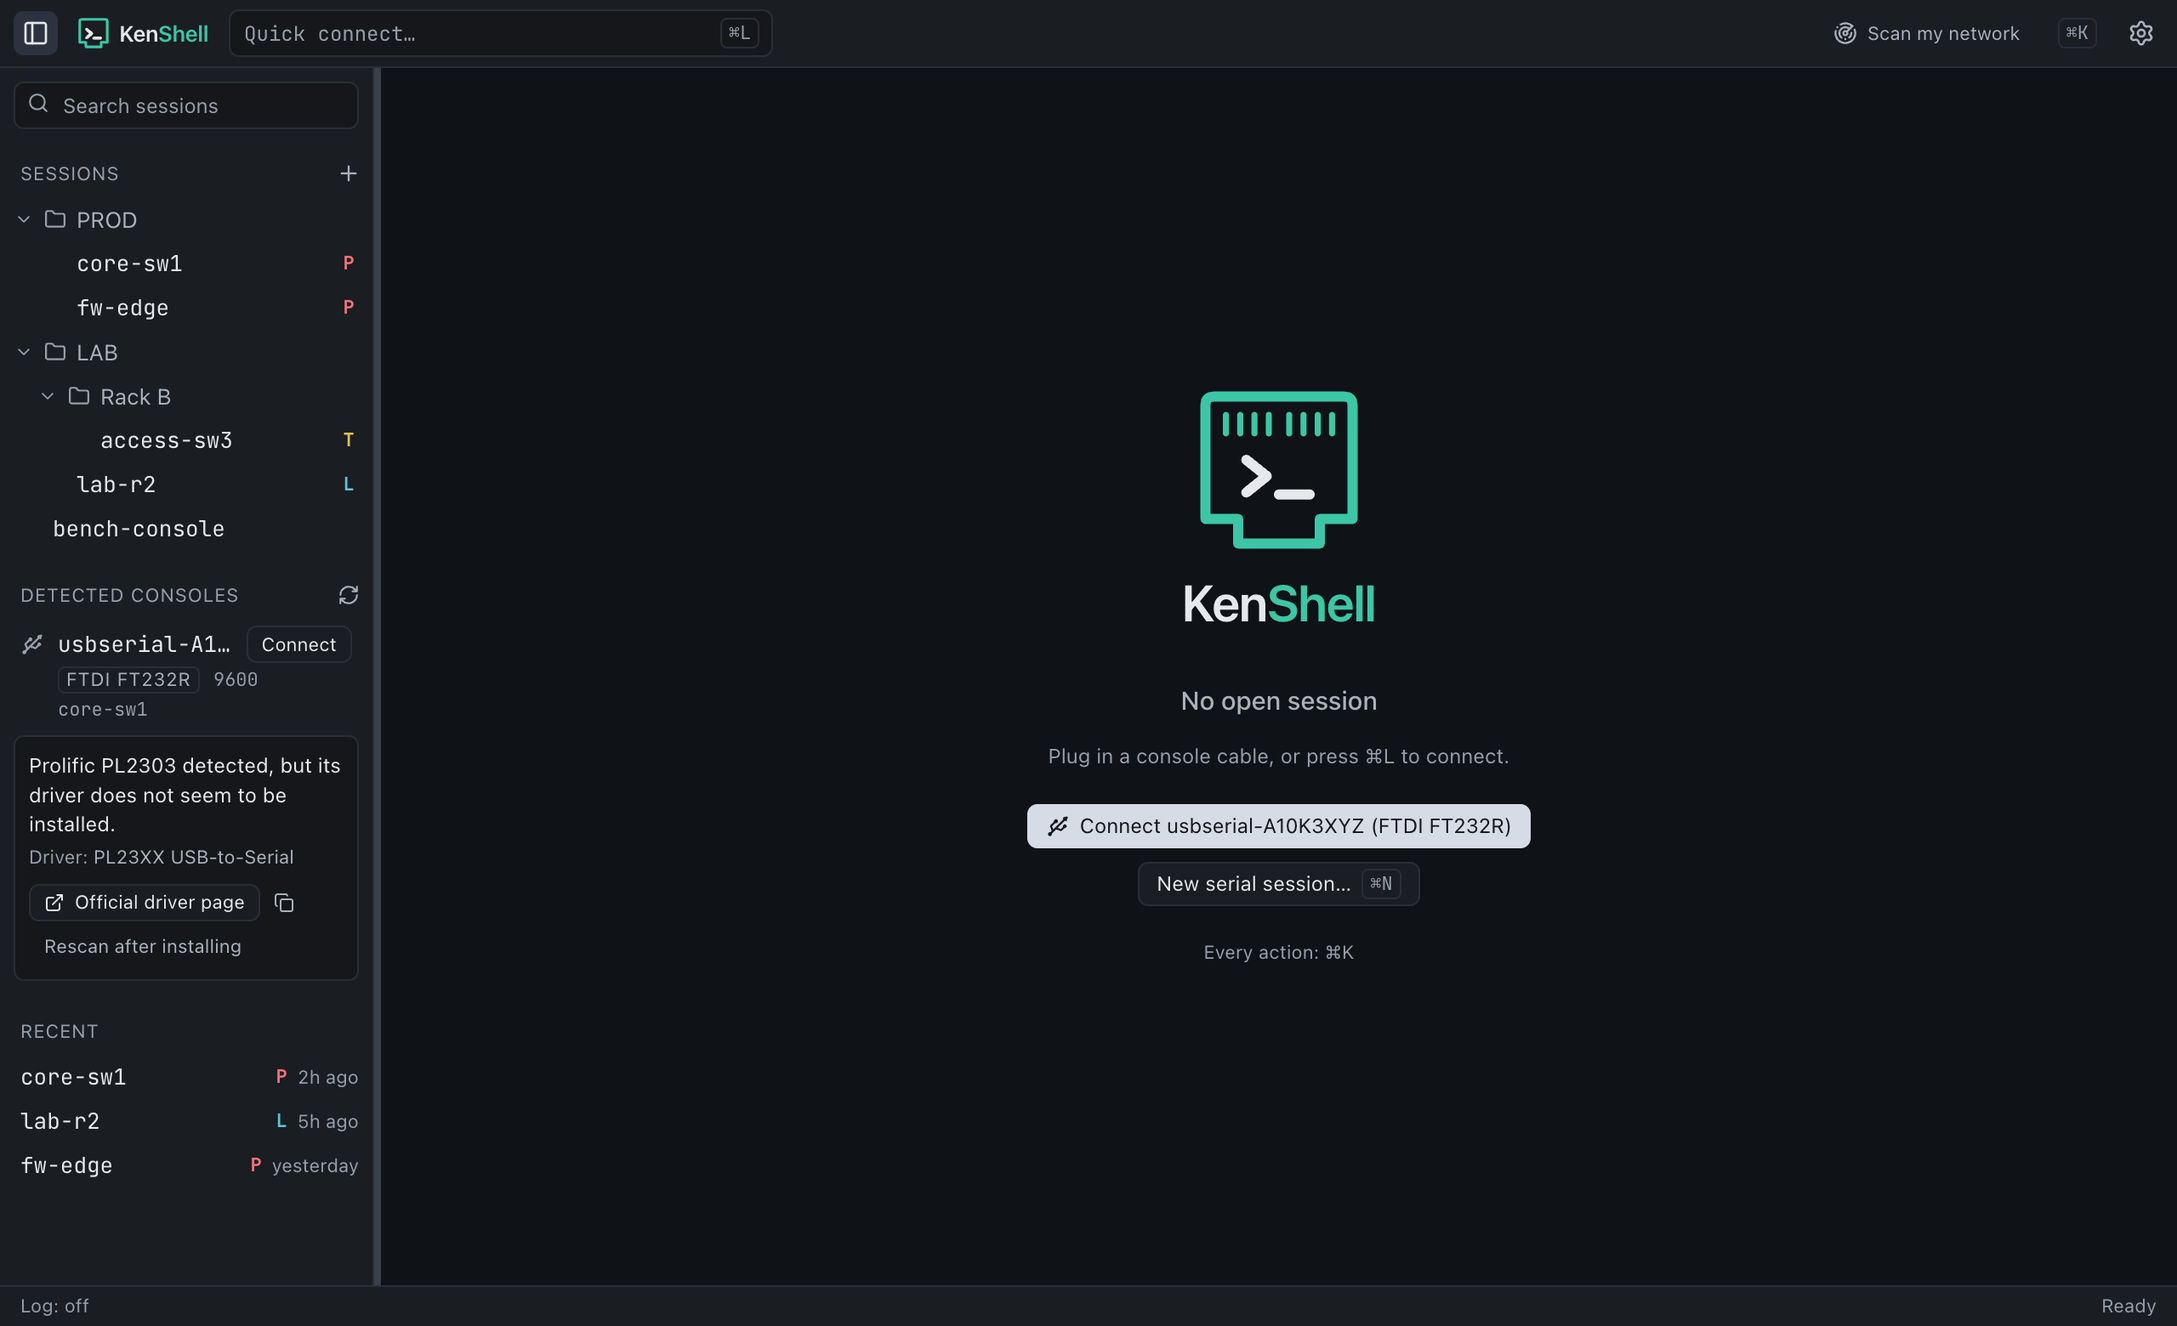
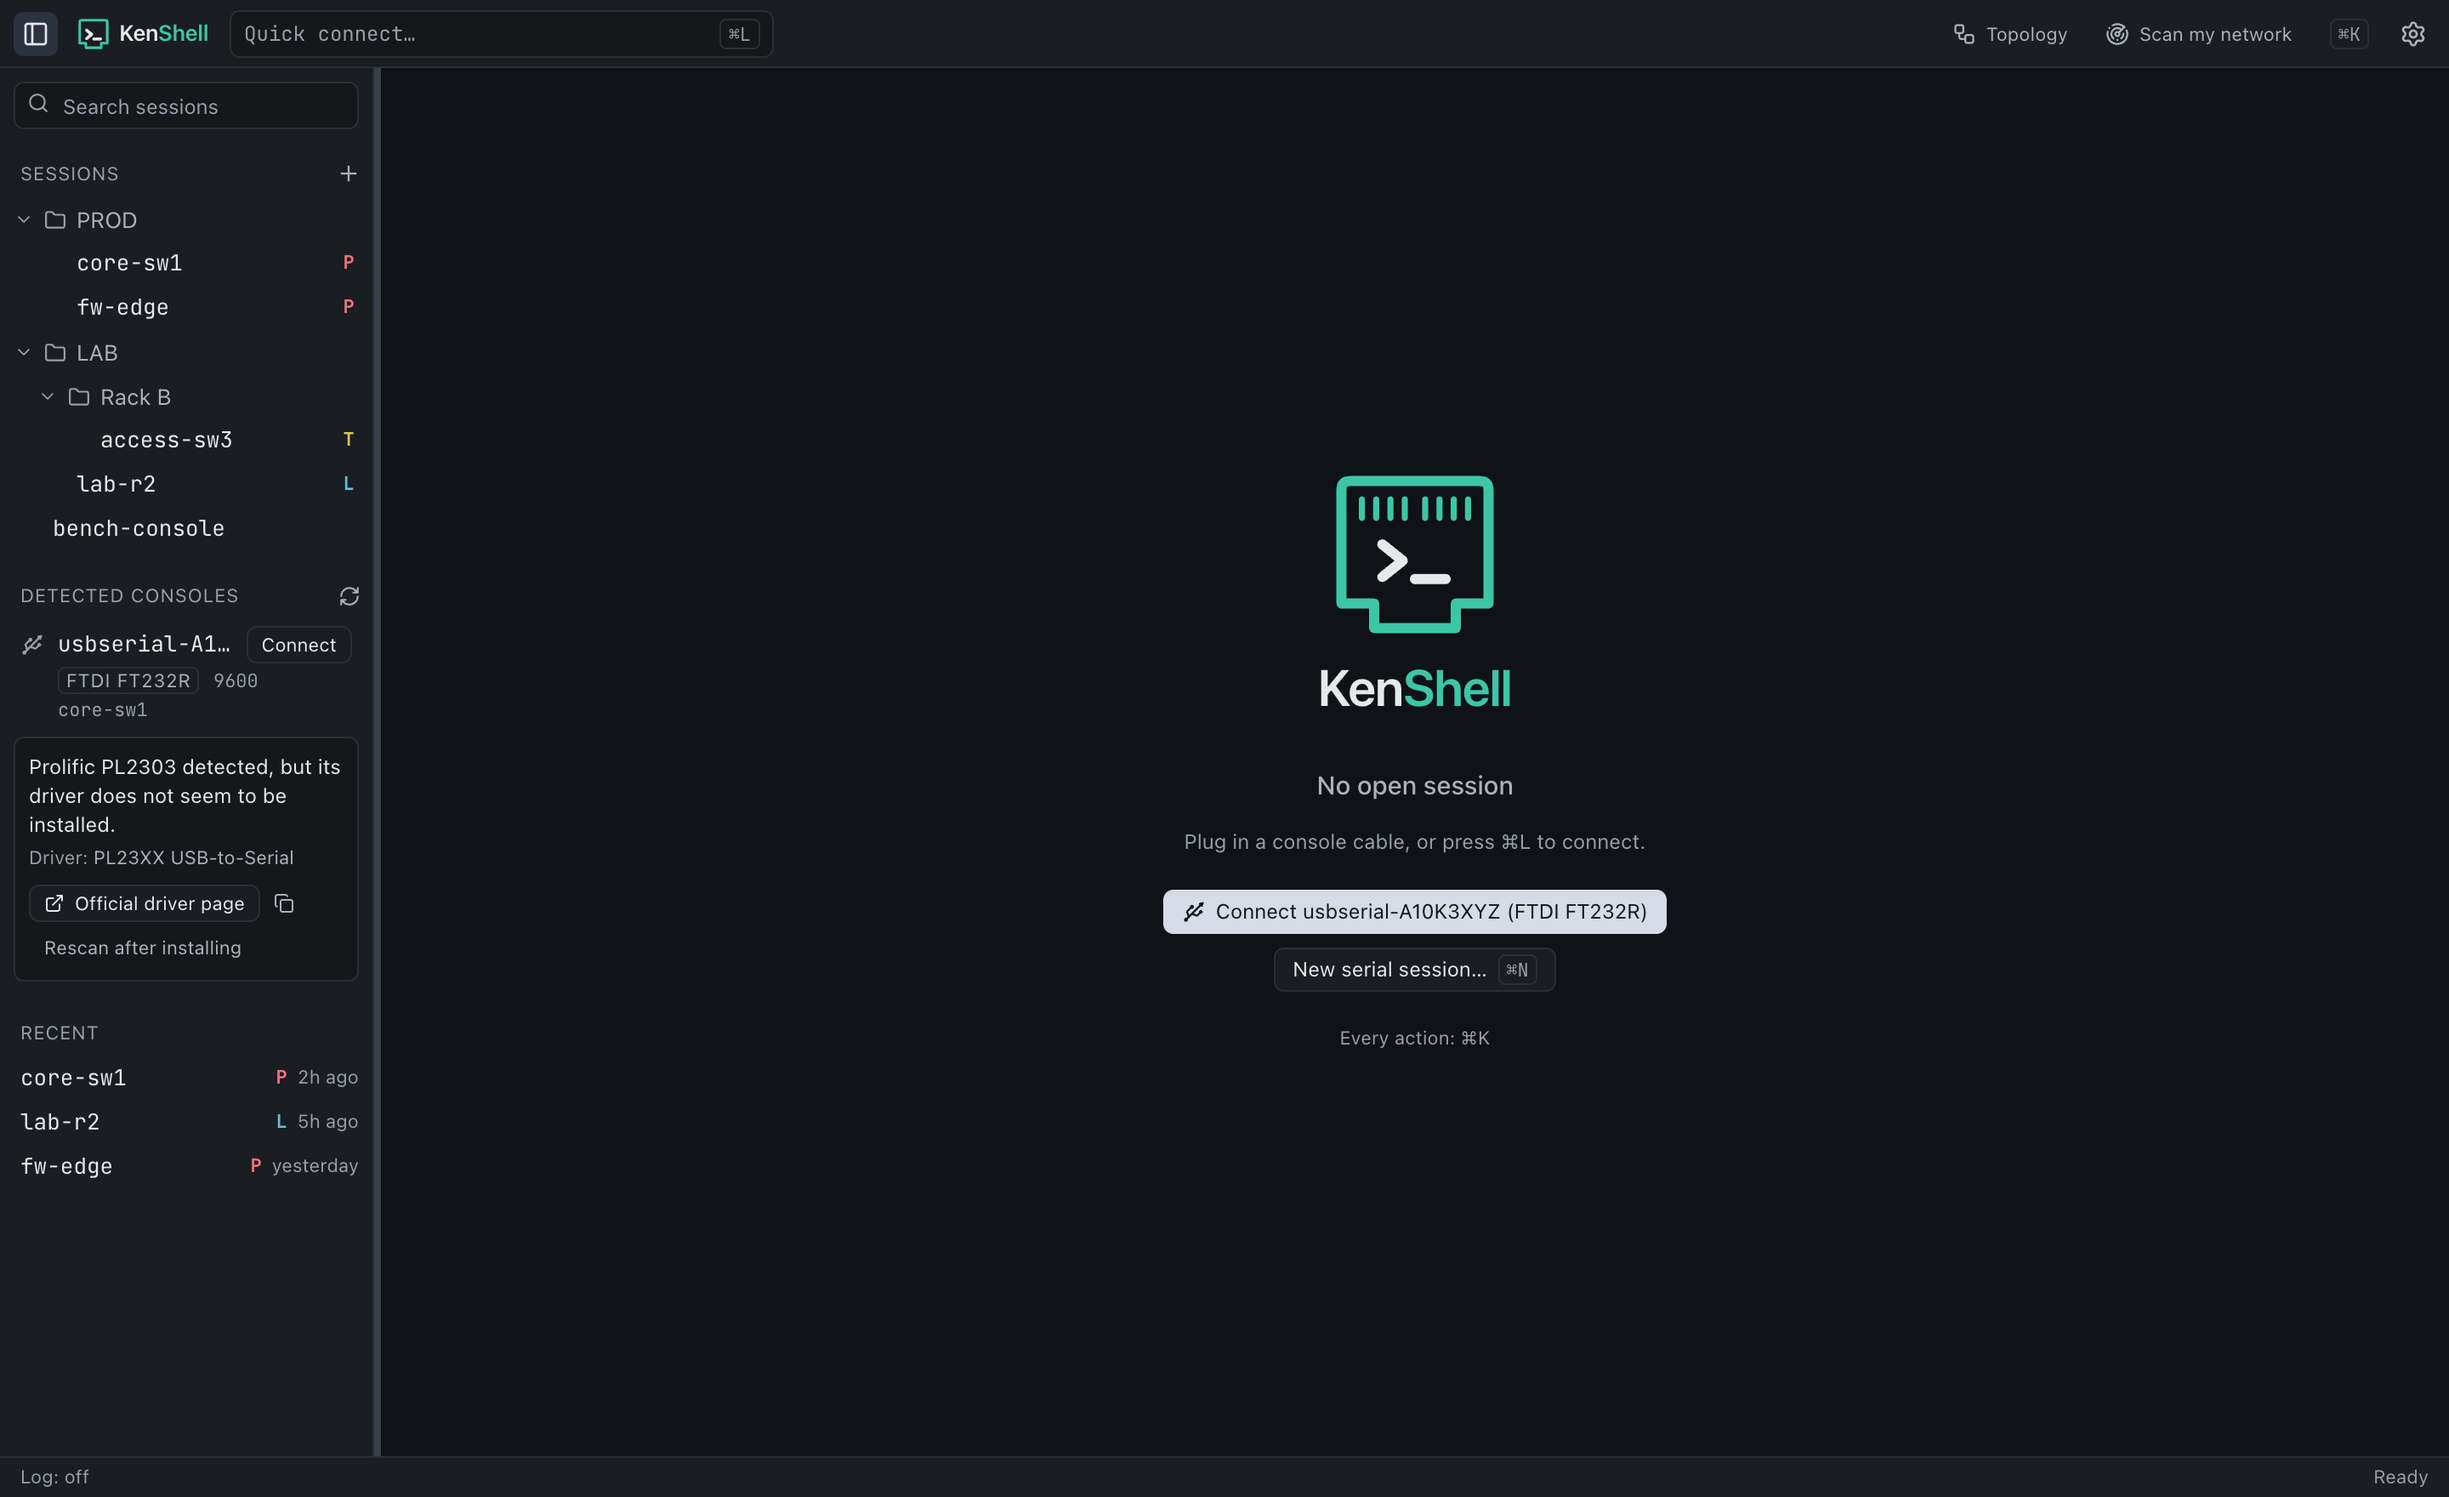
docs(R-T25): README in my own words with screenshots of the topology map and network scanner, English as the default app language

diff --git a/src/lib/mock/index.ts b/src/lib/mock/index.ts
@@ -955,8 +955,8 @@ export function mockInvoke(cmd: string, args: Args): Promise<unknown> {
           .slice(0, 6)
           .toLowerCase();
         const demo: Record<string, string> = {
-          '00000c': 'Cisco Systems',
-          '58696c': 'Ruijie Networks',
+          '00000c': 'Example Systems',
+          '58696c': 'Example Networks Co.',
         };
         return { vendor: demo[hex] ?? null, tableSize: 3 };
       }
@@ -1623,10 +1623,10 @@ export async function netscanRun(
     200: { ports: [443], mac: 'b8:27:eb:11:22:33', rtt: 14.2 },
   };
   const vendors: Record<number, string> = {
-    1: 'Ruijie Networks',
-    2: 'Cisco Systems',
-    3: 'Ruijie Networks',
-    11: 'Apple',
+    1: 'Example Networks Co.',
+    2: 'Example Systems',
+    3: 'Example Networks Co.',
+    11: 'Example Devices',
   };
   const result: ScanResult = {
     range: { first: `${base}1`, last: `${base}254` },

diff --git a/src/stores/settings.ts b/src/stores/settings.ts
@@ -96,7 +96,8 @@ export const DEFAULT_SETTINGS: AppSettings = {
   'appearance.theme': 'dark',
   'appearance.modeStripeWidth': 4,
   'appearance.colors': NO_COLORS,
-  'general.language': 'system',
+  // English by default; Turkish (or the system language) is one click away in Settings.
+  'general.language': 'en',
   'terminal.fontSize': 13,
   'terminal.scrollback': 10_000,
   'terminal.fontFamily': '',

diff --git a/src/i18n/index.ts b/src/i18n/index.ts
@@ -37,7 +37,8 @@ export function detectLocale(languages: readonly string[]): Locale {
   return 'en';
 }
 
-let current: Locale = detectLocale(typeof navigator === 'undefined' ? [] : navigator.languages);
+/** English until the language setting is applied (the default setting is English too). */
+let current: Locale = 'en';
 const listeners = new Set<() => void>();
 
 export function getLocale(): Locale {

diff --git a/README.md b/README.md
@@ -7,7 +7,7 @@
 <p align="center">
   <b>The terminal that knows it is talking to a switch.</b><br/>
   SSH, Telnet and serial console in one small, fast desktop app,<br/>
-  with a built-in CLI analyzer for switches, routers and firewalls.
+  with a CLI analyzer, a topology map and a network scanner built in.
 </p>
 
 <p align="center">
@@ -19,35 +19,81 @@
 <p align="center">
   <a href="#download-and-install"><b>Download</b></a> ·
   <a href="docs/USER_GUIDE.md"><b>User Guide</b></a> ·
+  <a href="#a-quick-tour"><b>Tour</b></a> ·
   <a href="#features"><b>Features</b></a> ·
   <a href="#for-developers"><b>For developers</b></a>
 </p>
 
 <p align="center">
-  <img src="docs/assets/screenshot-home.png" width="860" alt="KenShell start screen with saved sessions and a detected USB console" />
+  <img src="docs/assets/screenshot-session-analyzer.png" width="900" alt="A switch session in KenShell: privileged mode and PROD tags in the identity bar, a show command in the terminal and the same output as a table in the analyzer panel" />
 </p>
 
-KenShell is a lightweight network terminal for network engineers. It combines what you
-would normally use PuTTY or SecureCRT for (connecting to devices) with what you would use
-a CLI analyzer for (understanding their output). Plug in a console cable and you're on the
-device in seconds. Open an SSH session and KenShell tells you which device it is, which CLI
-mode you're in, and whether it's production. Run a `show` command and get a sortable table.
+## Why I built KenShell
 
-## Why KenShell
+I'm a network engineer. On a normal day I'm on a dozen switches, routers, firewalls and
+access points from several manufacturers, half of them over SSH and the other half through
+a console cable in a cold server room. For years that meant PuTTY or SecureCRT for the
+connection, a separate tool to make sense of the output, a spreadsheet for free IPs and a
+whiteboard for the topology.
 
-Most terminal emulators treat a switch like any other Unix host. KenShell knows it is talking
-to network gear:
+KenShell is the tool I wanted instead: one small, fast desktop app that knows it is talking
+to network gear. Plug in a console cable and I'm on the device in seconds. Open an SSH
+session and it tells me which device it is, which CLI mode I'm in and whether it's
+production. Run a `show` command and I get a sortable table. Open the topology tab and it
+draws how my switches are cabled together. Scan a VLAN and I see what is alive and which
+addresses are free.
 
-- **Plug-and-connect USB console.** Plug in a console cable and the port shows up in the
-  sidebar with its chip (FTDI, Prolific, CP210x, CH340 …). KenShell detects the baud rate
-  automatically, and tells you when a driver is missing.
-- **You always know where you are.** Every session shows its connection identity (protocol,
-  target, device hostname, model, OS version) and a colour stripe for the current CLI mode:
-  user, privileged, config, boot or shell. Production sessions are tagged so you don't mistake
-  them for lab gear.
-- **Knows the major network CLIs.** It recognises the prompts and modes of the common
-  switch, router and firewall operating systems.
-- **Small and fast.** Starts in a quarter of a second and stays under 100 MB of memory.
+It runs on macOS, Windows and Linux. The interface is in English, with Turkish one click
+away in **Settings → Language**.
+
+## A quick tour
+
+### Sessions that know where you are
+
+Every session shows its connection identity (protocol, target, device name, model, OS
+version) and a colour for the current CLI mode: user, privileged, config, boot or shell.
+Production sessions carry a **PROD** tag so I never mistake them for lab gear. The analyzer
+panel turns the last `show` output into a table I can filter, sort and export.
+
+### Topology map
+
+<p align="center">
+  <img src="docs/assets/screenshot-topology.png" width="900" alt="KenShell topology map: the gateway firewall on top, the core switch under it and access switches, an access point and end devices below, with the port on each end of every cable" />
+</p>
+
+The **Topology** tab draws my network as a hierarchy: the gateway on top, then the core,
+then the access layer, each device as its own card with its type, model and IP, and the
+port on both ends of every cable. It reads LLDP / CDP neighbours, MAC and ARP tables from
+the sessions I have open, with hidden read-only commands. With SNMP (v2c or v3) it doesn't
+even need a session: starting from one device it follows the neighbours until it has the
+whole network. An sFlow / NetFlow collector adds the end devices. **Device setup** shows the
+exact commands to enable LLDP, SNMP and flow export on each device type.
+
+### Network scanner
+
+<p align="center">
+  <img src="docs/assets/screenshot-scan-grid.png" width="440" alt="Scan results as a grid: used, probably free, this computer and the gateway" />
+  &nbsp;
+  <img src="docs/assets/screenshot-scan-list.png" width="440" alt="Scan results as a list with response time, host name, MAC, vendor and open ports" />
+</p>
+
+**Scan my network** finds what is alive on my own subnet or on a private network behind a
+router, such as a switch management VLAN (up to a /16). It pings at a steady 2000 packets a
+second, so a /24 takes a few seconds, and also knocks on the management ports (SSH, Telnet,
+web, RDP) to catch devices that ignore ping. I get response times, MAC addresses, vendors,
+DNS or NetBIOS names, a grid of used and free addresses, search, CSV export, and the last
+20 scans saved. It is discovery only: no vulnerability scanning, no password guessing, and
+only private address ranges.
+
+### Plug-and-connect console
+
+<p align="center">
+  <img src="docs/assets/screenshot-home.png" width="900" alt="KenShell start screen with saved sessions, a detected USB console cable and a driver hint" />
+</p>
+
+Plug in a console cable and it appears in the sidebar with its chip and the last baud rate
+that worked. KenShell detects the baud rate automatically and tells me when a driver is
+missing, with a link to the official driver page.
 
 ## Features
 
@@ -111,22 +157,23 @@ to network gear:
   traceroute.
 
 **App**
-- **Interface:** dark, light or system theme, English and Turkish, customisable shortcuts,
+- **Interface:** dark, light or system theme, English (default) and Turkish, customisable shortcuts,
   a command palette for every action, and accessible keyboard navigation.
 - **Updates:** a small card announces a new version; nothing installs until you click it.
 - **Privacy:** no telemetry. Passwords and secrets never reach logs, the database or exports.
 
 ## Performance
 
-KenShell is built to stay out of your way, even on an old laptop in a cold server room.
+I wanted it to stay out of my way, even on an old laptop during a site visit, so speed and
+size are hard limits checked on every build, not wishes.
 
 | Measure (macOS arm64 release build) | Result   | Budget  |
 | ----------------------------------- | -------- | ------- |
-| Cold start (median)                 | 265 ms   | < 1 s   |
-| Idle memory                         | 84.3 MB  | < 100 MB |
-| Extra memory per open session       | 3.3 MB   | < 15 MB |
+| Cold start (median)                 | 295 ms   | < 1 s   |
+| Idle memory                         | 94 MB    | < 100 MB |
+| Extra memory per open session       | ~5 MB    | < 15 MB |
 | Installer (dmg)                     | 7.05 MB  | < 15 MB |
-| JavaScript (gzipped)                | 435.1 KB | < 500 KB |
+| JavaScript (gzipped)                | 463.7 KB | < 500 KB |
 
 ## Download and install
 
@@ -295,5 +342,9 @@ only through typed IPC commands and event channels.
 
 ## License
 
-Copyright © 2026 omereniskorkusuz. All rights reserved. This repository is private; no licence
-is granted to use, copy or distribute the code.
+Copyright © 2026 omereniskorkusuz. All rights reserved.
+
+The source code is published so you can read it and see how KenShell works. No licence is
+granted: you may not copy, modify, redistribute or reuse it, in whole or in part, without
+my written permission. You are welcome to download and use the released app. Bug reports
+and ideas are welcome as issues; changes to the code are made only by me.

diff --git a/docs/USER_GUIDE.md b/docs/USER_GUIDE.md
@@ -442,7 +442,7 @@ Open with **⌘,**. Changes apply immediately.
 | Section | Highlights |
 | --- | --- |
 | **Appearance** | Theme (dark, light, system), mode stripe width, mode colours per device type. |
-| **Language** | English or Turkish. On first launch, the system language is used. |
+| **Language** | English (the default) or Turkish; **System** follows the computer's language. |
 | **Terminal** | Font, size, line spacing, cursor, output colouring categories, autocomplete, `--More--` handling, scrollback, copy on select, right-click paste, charset, line timestamps, renderer. |
 | **Connection** | SSH defaults (keepalive, legacy algorithms), paste delay, identifying devices after login. |
 | **Logins** | Credential profiles. |
